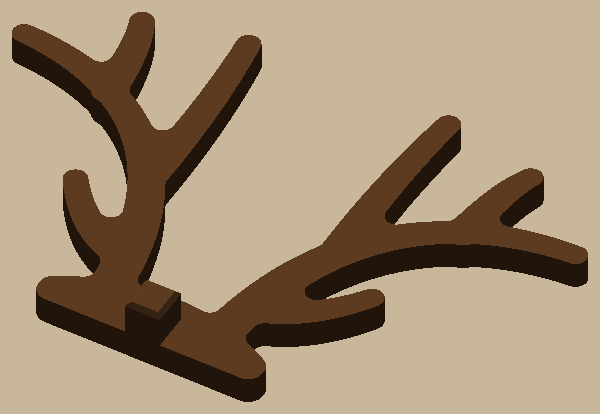
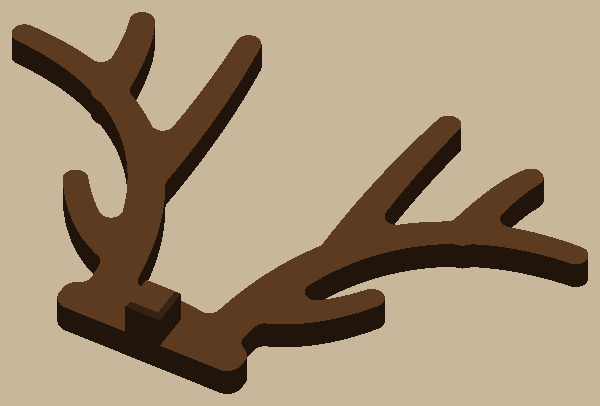
Sheep antlers: band top curves more (head arc R 30 -> 22), band ±16 -> ±13, so no brown at the sides

diff --git a/examples/sheep-antlers/tests/test_antlers.py b/examples/sheep-antlers/tests/test_antlers.py
@@ -105,3 +105,26 @@ def test_slicer_slices_it_in_one_filament(tmp_path):
     assert s.same_objects(back, plate)
     report = s.slice_report(plate, tmp_path / "s.3mf")
     assert [r[0] for r in report["layers"]] == [(settings().filament(P.filament_brown),)]
+
+
+def test_band_stays_under_the_head_arc(part):
+    """Off center the band's top follows the head's top arc (head_r), so no brown shows above the head at the
+    sides. Probe straight up near each end of the band: its lowest piece (the band) tops out under the arc."""
+    import math
+    # outside the beams (root_x + beam_w / 2, plus the round where they join): there the antler itself rises
+    for dx in (P.band_half - 0.5, -(P.band_half - 0.5)):
+        assert abs(dx) > P.root_x + P.beam_w / 2 + P.smooth
+        x = center_x(P) + dx
+        probe = Pos(x - 0.05, 0, 0.1) * Box(0.1, P.head_top - P.bottom, P.t - 0.2, align=(Align.MIN,) * 3)
+        pieces = sorted((b.min.Y, b.max.Y) for b in (s.bounding_box() for s in (part & probe).solids()))
+        if not pieces:
+            continue  # the band's rounded end stops short of here
+        arc_y = P.head_top - P.head_r + math.sqrt(P.head_r ** 2 - dx ** 2) - P.bottom
+        assert pieces[0][1] <= arc_y + 0.05, (dx, pieces[0][1], arc_y)
+
+
+def test_head_arc_curves_enough_at_the_band_ends():
+    """The first print showed 1 mm+ of brown at the sides with head_r 30: the arc must drop more than that did."""
+    import math
+    drop = lambda r: r - math.sqrt(r * r - 16.0 ** 2)
+    assert drop(P.head_r) >= drop(30.0) + 2.0

diff --git a/examples/sheep-antlers/sheep_antlers/params.py b/examples/sheep-antlers/sheep_antlers/params.py
@@ -14,7 +14,7 @@ class Params:
     # the sheep (measured by the user, 2026-11-27)
     slot_h: float = 5.0  # slot height at its center
     slot_to_top: float = 3.0  # slot top to the top of the head, on the center line
-    head_r: float = 30.0  # the head's top arc, seen from behind: a guess from the photos (chord 30 -> ~4 mm sag)
+    head_r: float = 22.0  # the head's top arc, seen from behind: 30 (a guess) showed 1 mm+ of band at the sides
     # the nub: a short block, not the whole slot, so the slot's curve doesn't matter
     nub_w: float = 5.0  # along the slot
     nub_h: float = 5.4  # across the slot, centered on it: fit tab 3 (2026-11-27); 4.8 was too loose
@@ -29,7 +29,7 @@ class Params:
     notch_d: float = 2.0
     # the plate
     t: float = 4.0  # thickness: 20 layers, stiff in PETG
-    band_half: float = 16.0  # the band behind the head, out to here each side
+    band_half: float = 13.0  # the band behind the head, out to here each side (rounded ends)
     band_h: float = 8.0  # band from the slot bottom to its top on the center line: level with the head top, hidden
     span: float = 82.0  # antler tip to tip (sheep is just shy of 3.5" = 88 mm across the ears)
     rise: float = 45.0  # top tine above the top of the head

diff --git a/examples/sheep-antlers/docs/specs/sheep-antlers.md b/examples/sheep-antlers/docs/specs/sheep-antlers.md
@@ -13,7 +13,7 @@ Reindeer antlers for a small black sheep-head figure, held by its slot. A Santa 
 
 ## Shape
 
-- A flat 4 mm plate behind the head: a band ±16 mm wide following the head's top arc (guessed at R 30 from the
+- A flat 4 mm plate behind the head: a band ±16 mm wide (now ±13, see amendments) following the head's top arc (guessed at R 30, now R 22, from the
   slot's chord) and 5 mm above it, so it shows like a headband (see amendments: now hidden).
 - Two mirrored antlers from the band: a beam curving up and out to 82 mm tip to tip (the sheep is just shy of 88 mm
   across the ears), a tall inner tine 45 mm over the head, an outer tine, a short brow tine. Strokes taper
@@ -30,3 +30,6 @@ Reindeer antlers for a small black sheep-head figure, held by its slot. A Santa 
 - 2026-11-27: the band showed as thick brown over the head (13 mm on the center line). Now 8 mm (`band_h`), level
   with the head top, so it hides behind the head and only the antlers show.
 - 2026-11-27: fit tab 3 (5.4 mm) holds: `nub_h` 4.8 -> 5.4, 0.4 over the measured 5 mm slot. Centered on the slot it reaches 0.2 under the slot bottom, so the plate's bottom edge drops 0.2 to meet it (`Params.bottom`).
+- 2026-11-27: the 5.4 nub fits well, but 1 mm+ of band showed at the sides (center flush): the head curves more
+  than the R 30 guess. The band's top arc is now R 22 (2.3 mm lower than R 30 at 16 mm out) and the band stops at
+  ±13 mm, just past the beams.
